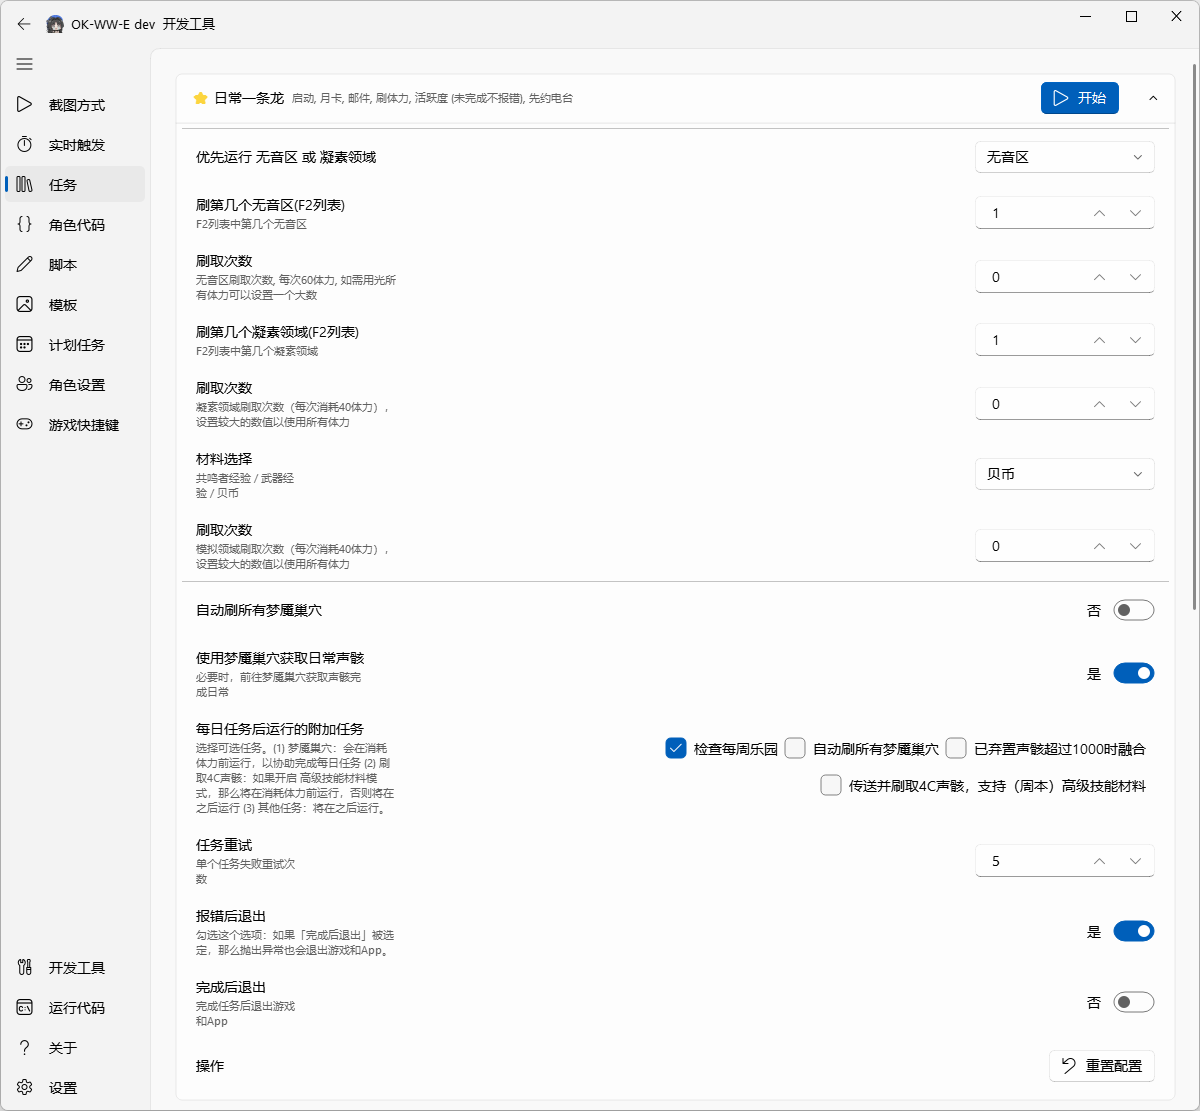
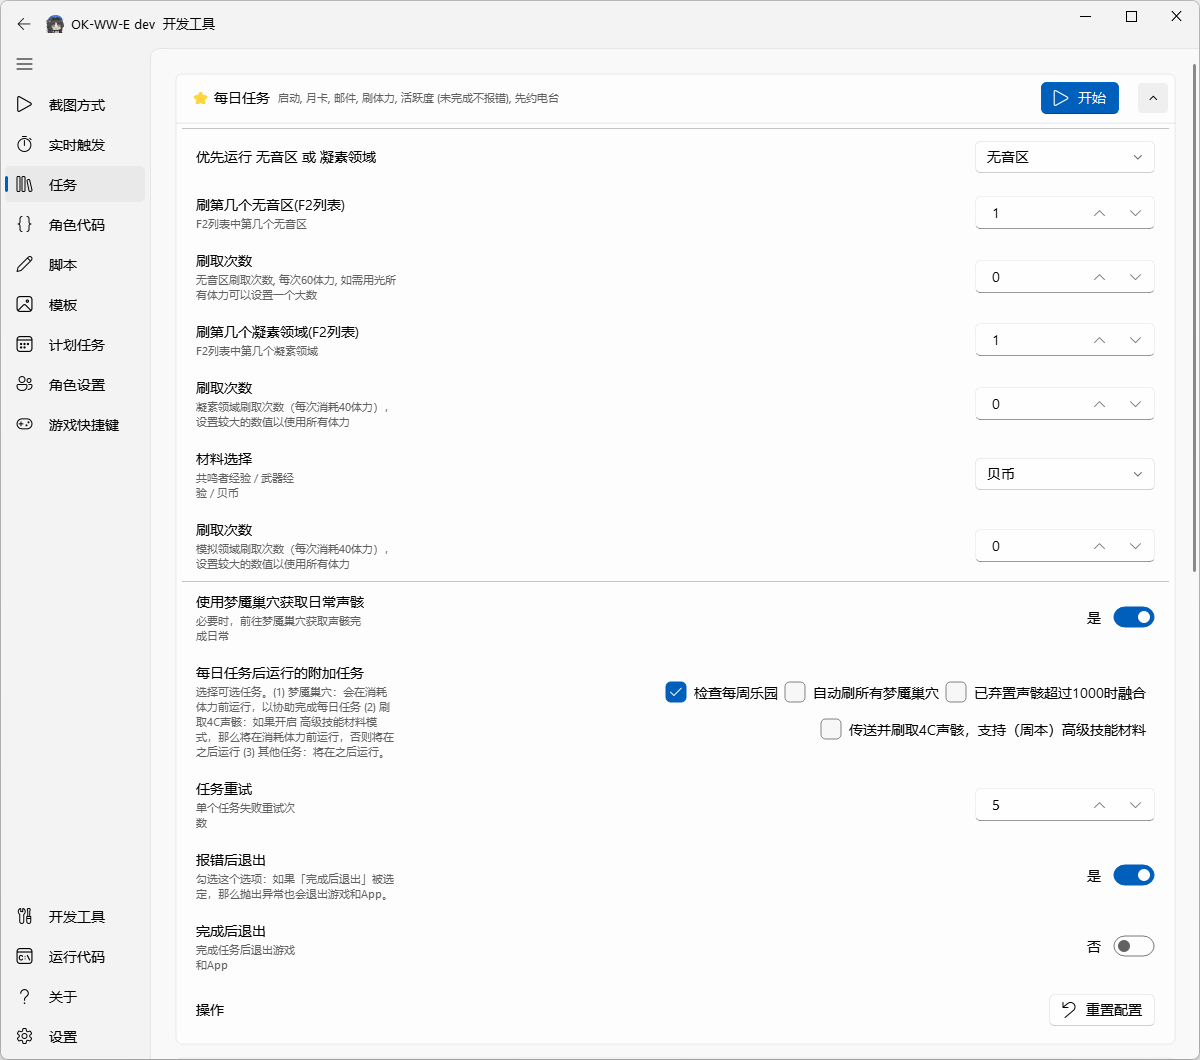
update title

diff --git a/src/task/DailyTask2.py b/src/task/DailyTask2.py
@@ -277,7 +277,7 @@ class DailyTask2(WWOneTimeTask, BaseCombatTask):
                             self.log_error("未能完成 弃置声骸融合，需要手动登陆游戏处理。", notify=True)
             #
         except Exception as e:
-            self.log_error(f'一条龙错误 | {current_task} | {str(e)}\n{''.join(traceback.format_exception(e))}')
+            self.log_error(f'每日任务错误 | {current_task} | {str(e)}\n{''.join(traceback.format_exception(e))}')
             self.screenshot(f'{datetime.now().strftime("%Y%m%d")}_DailyTask2_Error')
             #
             if not self.config.get('Exit with Error'):

diff --git a/README.md b/README.md
@@ -4,7 +4,7 @@
 
 ### 简介
 
-在保留 [原版 ok-ww](https://github.com/ok-oldking/ok-wuthering-waves) 全部功能的基础上，**添加新版日常一条龙任务，增加任务鲁棒性和日志可读性，方便无人值守运行和调试。**
+在保留 [原版 ok-ww](https://github.com/ok-oldking/ok-wuthering-waves) 全部功能的基础上，**添加新版日常每日任务，增加任务鲁棒性和日志可读性，方便无人值守运行和调试。**
 
 代码变更：https://github.com/zzc-tongji/ok-ww-enhanced/compare/master..main?diff=split 。
 
@@ -37,14 +37,14 @@
   - 启用后，选项 "刷多少次" 将会被无视，实际刷取次数取决于 每周上限 和 剩余体力。
   - 代码变更报告：[FarmEchoTask.diff.html](https://htmlpreview.github.io/?https://raw.githubusercontent.com/zzc-tongji/ok-ww-enhanced/refs/heads/main/readme/FarmEchoTask.diff.html) 。
 
-#### 新版一条龙任务
+#### 新版每日任务
 
 - 采用新版体力任务（无音区、凝素领域、模拟领域）。支持每种体力任务独立设置刷取次数（支持 跳过刷取 和 刷完所有体力）。
 - 采用新版刷4C声骸任务。如果启用 高级技能材料模式 则在 新版体力任务 前执行。
 - 支持设置重试次数（对每个任务分别生效）。若重试次数用尽也无法完成，则记录日志并 **截图**。
 - 日志文件 `./logs/ok-script.log` 优化：
   - 如果某些任务无法完成，会包含文本 `未完成`，以便后续处理（例如发送通知）。
-  - 在出现异常的情况下，会包含文本 `一条龙错误` 和错误堆栈，以便后续处理。
+  - 在出现异常的情况下，会包含文本 `每日任务错误` 和错误堆栈，以便后续处理。
 - 新版 [DailyTask2.py](./src/task/DailyTask2.py) 相比原版 [DailyTask.py](./src/task/DailyTask.py) 的改动：
   - 相比原版，新版增加了任务重试、异常日志和异常截图。
   - 在出现异常的情况下：新版可以设置是否退出程序，原版不会退出程序。
@@ -63,11 +63,11 @@
 ```pwsh
 cd "<ok-ww-e-installation-directory>\data\apps\ok-ww-e\working"
 
-# 启动后自动执行第1个任务（新版日常一条龙），并在任务完成后退出程序。
+# 启动后自动执行第1个任务（新版每日任务），并在任务完成后退出程序。
 ok-ww-e.exe -t 1 -e
 
-# 启动后自动执行第5个任务（原版日常一条龙），并在任务完成后退出程序。
-ok-ww-e.exe -t 5 -e
+# 启动后自动执行第6个任务（原版每日任务），并在任务完成后退出程序。
+ok-ww-e.exe -t 6 -e
 ```
 
 *   `-t` 或 `--task` - 启动后自动执行第 N 个任务。
